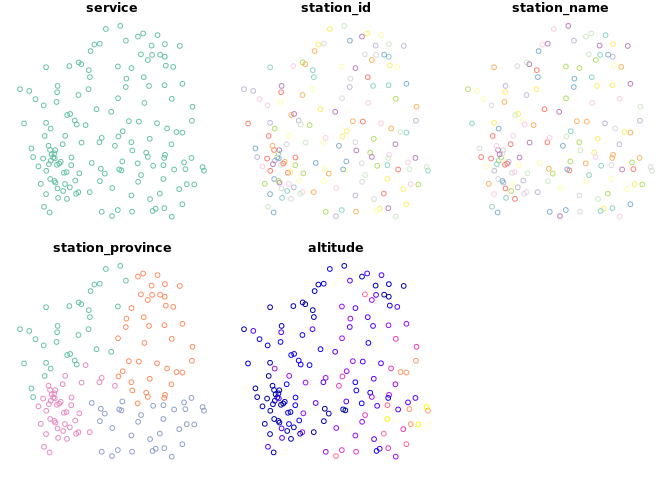
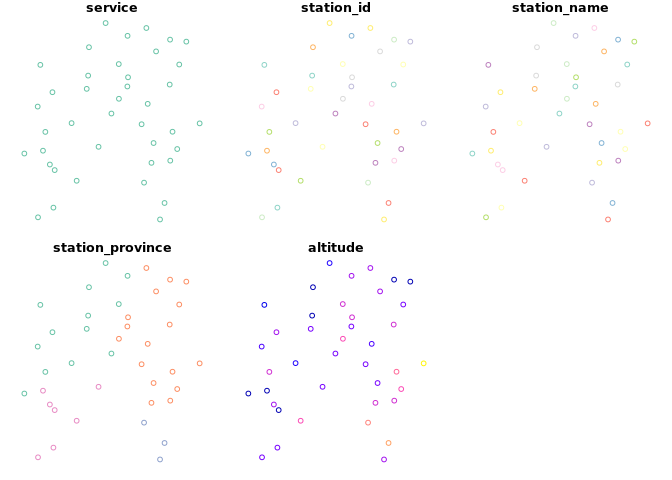
2022-07-27 15:17:01 automatic update

diff --git a/content/software/meteospain/index.md b/content/software/meteospain/index.md
@@ -81,10 +81,10 @@ get_meteo_from('meteogalicia', mg_options)
 #> Consellería de Medio Ambiente, Territorio e Vivenda da Xunta de Galicia como fonte da mesma cada vez 
 #> que as utilice para os usos distintos do particular e privado.
 #> https://www.meteogalicia.gal/web/informacion/notaIndex.action
-#> Simple feature collection with 3692 features and 14 fields
+#> Simple feature collection with 3692 features and 14 fields (with 3310 geometries empty)
 #> Geometry type: POINT
 #> Dimension:     XY
-#> Bounding box:  xmin: -9.178318 ymin: 41.8982 xmax: -6.765224 ymax: 43.734
+#> Bounding box:  xmin: -9.028601 ymin: 41.97433 xmax: -6.922902 ymax: 43.54071
 #> Geodetic CRS:  WGS 84
 #> # A tibble: 3,692 × 15
 #>    timestamp           service station_id station_name station_province altitude
@@ -109,25 +109,25 @@ Stations info can be accessed with `get_stations_info_from` function:
 
 ``` {.r}
 get_stations_info_from('meteogalicia', mg_options)
-#> Simple feature collection with 154 features and 5 fields
+#> Simple feature collection with 22 features and 5 fields
 #> Geometry type: POINT
 #> Dimension:     XY
-#> Bounding box:  xmin: -9.178318 ymin: 41.8982 xmax: -6.765224 ymax: 43.734
+#> Bounding box:  xmin: -9.028601 ymin: 41.97433 xmax: -6.922902 ymax: 43.54071
 #> Geodetic CRS:  WGS 84
-#> # A tibble: 154 × 6
-#>    service      station_id station_name             station_province altitude
-#>  * <chr>        <chr>      <chr>                    <chr>                 [m]
-#>  1 meteogalicia 10157      Coruña-Torre de Hércules A Coruña               21
-#>  2 meteogalicia 14000      Coruña-Dique             A Coruña                5
-#>  3 meteogalicia 10045      Mabegondo                A Coruña               94
-#>  4 meteogalicia 14003      Punta Langosteira        A Coruña                5
-#>  5 meteogalicia 10144      Arzúa                    A Coruña              362
-#>  6 meteogalicia 19005      Guísamo                  A Coruña              175
-#>  7 meteogalicia 19012      Cespón                   A Coruña               59
-#>  8 meteogalicia 10095      Sergude                  A Coruña              231
-#>  9 meteogalicia 10800      Camariñas                A Coruña                5
-#> 10 meteogalicia 19001      Rus                      A Coruña              134
-#> # … with 144 more rows, and 1 more variable: geometry <POINT [°]>
+#> # A tibble: 22 × 6
+#>    service      station_id station_name   station_province altitude
+#>  * <chr>        <chr>      <chr>          <chr>                 [m]
+#>  1 meteogalicia 10045      Mabegondo      A Coruña               94
+#>  2 meteogalicia 10050      CIS Ferrol     A Coruña               37
+#>  3 meteogalicia 10052      Muralla        A Coruña              661
+#>  4 meteogalicia 10089      Melide         A Coruña              477
+#>  5 meteogalicia 10046      Marco da Curra A Coruña              651
+#>  6 meteogalicia 10049      Corrubedo      A Coruña               30
+#>  7 meteogalicia 10087      Fontecada      A Coruña              369
+#>  8 meteogalicia 10088      Fragavella     Lugo                  595
+#>  9 meteogalicia 10062      Ancares        Lugo                 1364
+#> 10 meteogalicia 10053      Campus Lugo    Lugo                  400
+#> # … with 12 more rows, and 1 more variable: geometry <POINT [°]>
 ```
 
 Returned objects are spatial objects (using the
